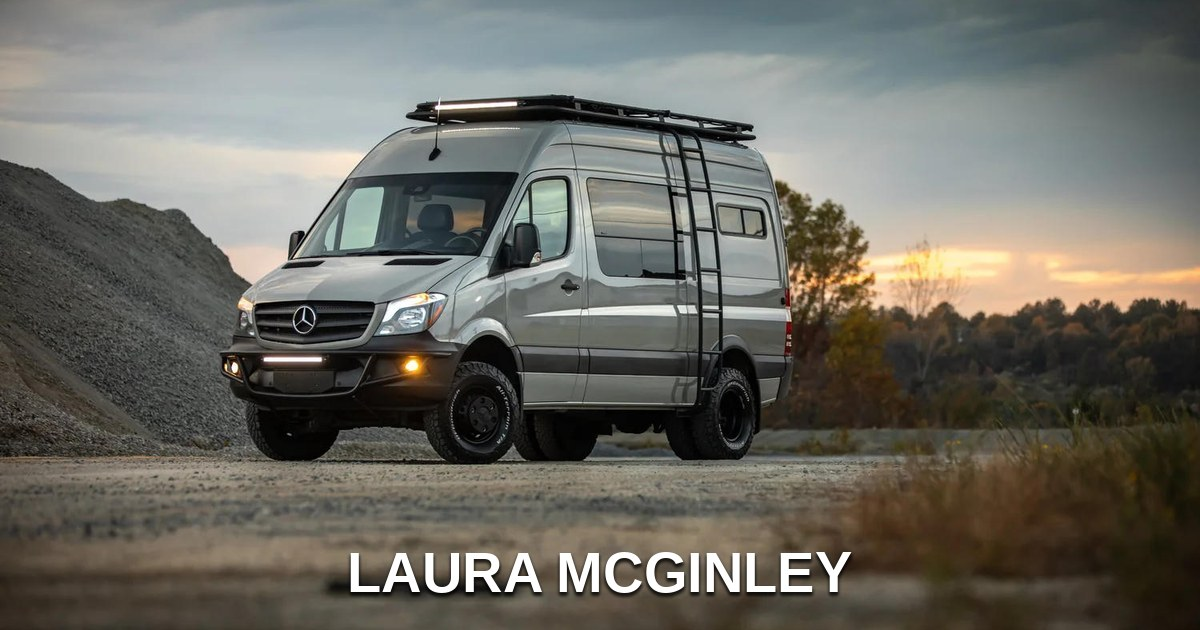
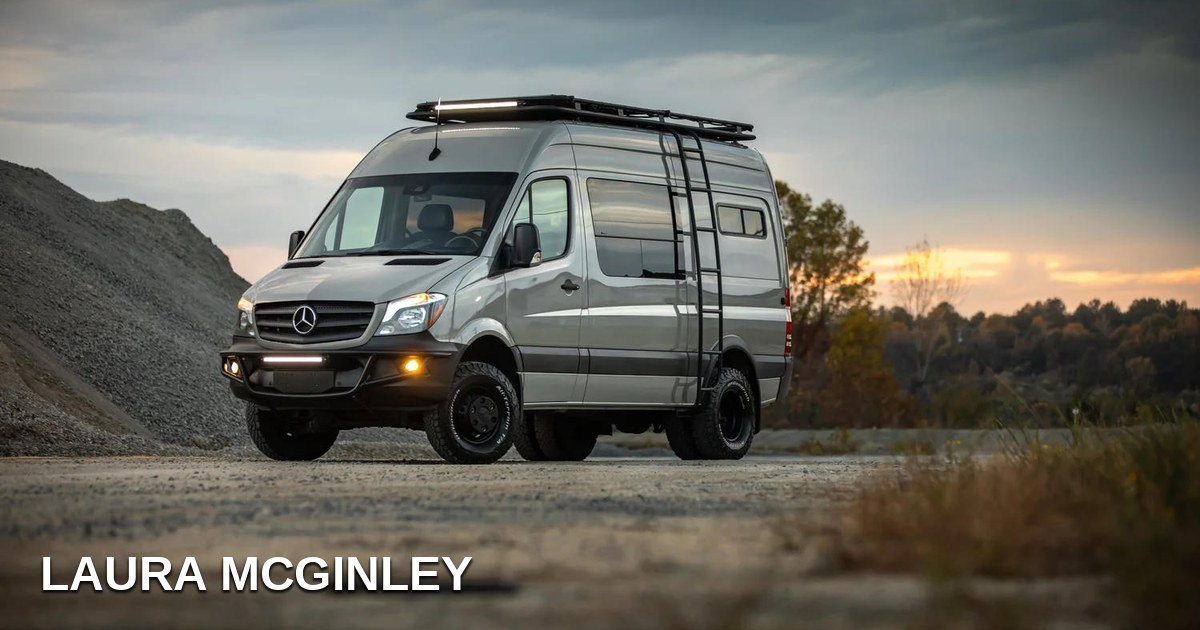
Share card: name left on photo, Denver Van Shops in title

Changed region(s): [[0.0308, 0.8746, 0.7092, 0.9651]]

diff --git a/server/middleware/00-share-unfurl.ts b/server/middleware/00-share-unfurl.ts
@@ -1,10 +1,10 @@
 /**
  * iMessage / crawlers need og:image. The Grok injector skips it on *.vercel.app.
- * This wraps the HTML response and adds the share tags if they are missing.
+ * Force one title and one image so the preview is not duplicated.
  */
-const IMAGE = "https://denver-van-shops.vercel.app/og.jpg?v=laura";
-const TITLE = "Laura McGinley";
-const DESC = "Denver Van Shops";
+const IMAGE = "https://denver-van-shops.vercel.app/og.jpg?v=left";
+const TITLE = "Denver Van Shops";
+const DESC = "Laura McGinley · September 7–16";
 
 const TAGS = [
   `<meta property="og:title" content="${TITLE}">`,
@@ -17,6 +17,13 @@ const TAGS = [
   `<meta name="twitter:image" content="${IMAGE}">`,
 ].join("");
 
+function stripShare(html: string) {
+  return html.replace(
+    /<meta\b[^>]*(?:property|name)=["'](?:og:title|og:description|og:image|og:image:width|og:image:height|twitter:card|twitter:title|twitter:image|twitter:description)["'][^>]*>/gi,
+    "",
+  );
+}
+
 export default async function shareUnfurl(
   event: { url: URL; req: { method: string; headers: Headers } },
   next: () => unknown | Promise<unknown>,
@@ -26,15 +33,9 @@ export default async function shareUnfurl(
   const type = result.headers.get("content-type") ?? "";
   if (!type.includes("text/html") || !result.body) return result;
 
-  const html = await result.text();
-  if (html.includes('property="og:image"') && html.includes("Laura McGinley")) {
-    return new Response(html, { status: result.status, headers: result.headers });
-  }
-
-  const nextHtml = html.includes("</head>")
-    ? html.replace("</head>", `${TAGS}</head>`)
-    : TAGS + html;
+  let html = stripShare(await result.text());
+  html = html.includes("</head>") ? html.replace("</head>", `${TAGS}</head>`) : TAGS + html;
   const headers = new Headers(result.headers);
   headers.delete("content-length");
-  return new Response(nextHtml, { status: result.status, statusText: result.statusText, headers });
+  return new Response(html, { status: result.status, statusText: result.statusText, headers });
 }
